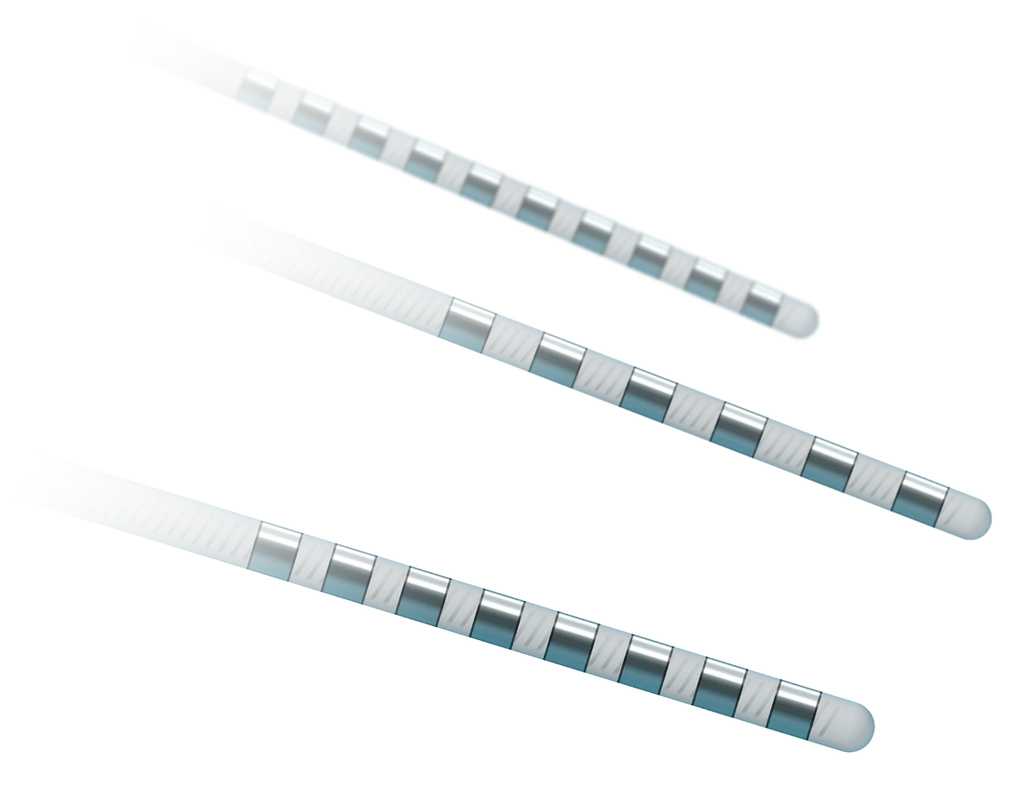
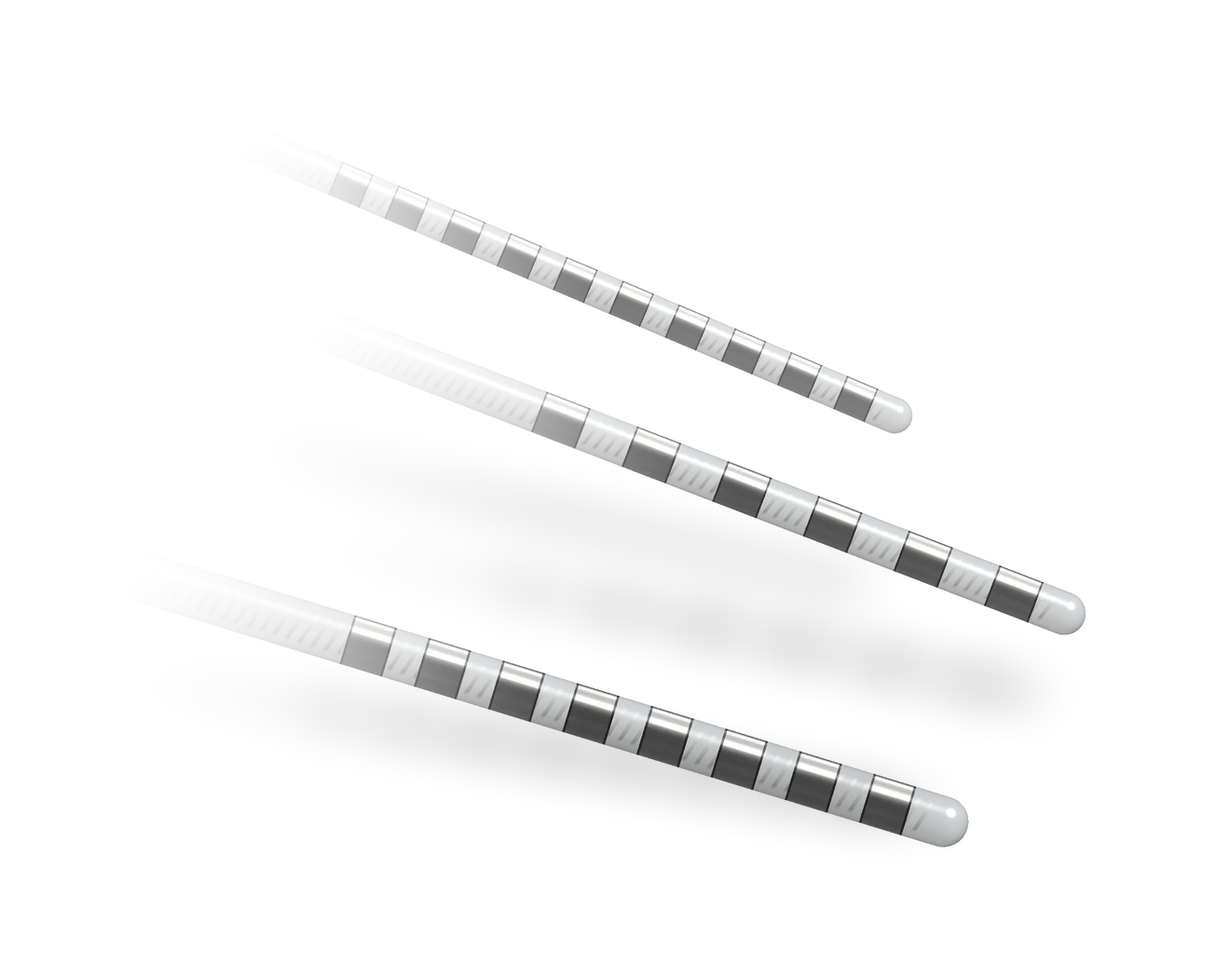
sensomedical TOP-FIX B: one-colour H1; electrodes re-rendered neutral (key from the headline side, no cyan, no blur) and mirrored so the tips face the text, soft cast shadow, no glows, neutral falloff; step 5 scroll
Claude-Session: https://claude.ai/code/session_014388NG1Z4TasdQgjB48bmb

diff --git a/_kit/src/sensomedical.src.html b/_kit/src/sensomedical.src.html
@@ -846,6 +846,8 @@ div.mh-row{grid-template-columns:minmax(0,4fr) minmax(0,3fr) minmax(0,5fr) 24px}
 .bk .cr span{position:relative;padding-left:16px}
 .bk .cr span::before{content:"";position:absolute;left:0;top:.62em;width:6px;height:6px;background:var(--acc)}
 .mani .mk-h{margin:0 0 18px;font-size:11px}
+/* TOP-FIX 2026-11-27: the hero headline in one colour and one style (no italic accent second line) */
+.hero-h em{font-style:normal;font-weight:inherit;color:inherit}
 </style>
 </head>
 </head>
@@ -1084,11 +1086,12 @@ function unmask(s){if(!s)return;(s.masks||[]).forEach(function(m){m.style.overfl
 /*<R:field>*//* ================= HERO FIELD: a crafted render of SensoMedical's real product (HOME_BRIEF update 2c): the FDA-cleared
    Wovyn SEEG depth electrode (K253970), three leads in a loose fan with their platinum/iridium ring contacts and rounded
    tips forward, the clear TPU jacket showing the conductor coil inside. Rasterised offline by render.py with real alpha,
-   baked to hero.webp; here it breathes in a slow Ken Burns drift with a faint logo-cyan glow behind it. It moves on its
+   baked to hero.webp; here it breathes in a slow Ken Burns drift. TOP-FIX B 2026-11-27: re-rendered by render_b.py
+   (neutral studio light, key from the headline side, no cyan, no blur), drawn mirrored so the tips face the text, no glow. It moves on its
    own, so no pointer response (CZ). On phones it sits in the top band and fades into the ink above the text (CW). ================= */
 var field=(function(){
   var cv=$("#field"),c=cv.getContext("2d"),dpr=1,w=0,h=0,running=false,raf=0,t0=performance.now(),shown=false;
-  var IN={v:1},dim=1,dimT=1,SP={v:0},G=null,img=new Image(),ok=false;
+  var IN={v:1},dim=1,dimT=1,SP={v:0},HY=0,G=null,img=new Image(),ok=false;
   var BG="#0a1828";
   img.decoding="async";img.onload=function(){ok=true;if(!running)frame(true)};img.src="hero.webp";
   function h1r(){var e=document.querySelector("#view h1")||document.querySelector("h1"),r=0;if(!e)return 0;try{var tw=document.createTreeWalker(e,4),n,g=document.createRange();while(n=tw.nextNode()){if(!n.nodeValue.trim())continue;g.selectNodeContents(n);[].forEach.call(g.getClientRects(),function(b){if(b.width>0&&b.right>r)r=b.right})}}catch(_){}return r}
@@ -1116,18 +1119,15 @@ var field=(function(){
     if(ok){
       /* a very slow breath: push in ~3% and drift up a touch over ~44s, eased back and forth (scaled about the image centre) */
       var k=.5-.5*Math.cos(t*Math.PI*2/44),sc=(1+.03*k)*(1+.035*(1-e));
-      var dw=G.iw*sc,dh=G.ih*sc,x=G.kx-dw*.5,y=G.ky-dh*.5-k*G.ih*.008-SP.v*G.ih*.05;
-      /* a low deep-teal glow, painted across the WHOLE canvas (never inside the image rect alone), so no edge of the
-         baked render can read as a pasted box (DJ) */
-      var ggx=G.mob?w*.5:G.kx,ggy=G.mob?G.bh*.45:h*.48,ggr=Math.max(w,h)*.7;
-      var ag=c.createRadialGradient(ggx,ggy,0,ggx,ggy,ggr);
-      ag.addColorStop(0,"rgba(14,44,70,"+(.6*e).toFixed(3)+")");ag.addColorStop(.55,"rgba(11,32,52,"+(.3*e).toFixed(3)+")");ag.addColorStop(1,"rgba(10,24,40,0)");
-      c.fillStyle=ag;c.fillRect(0,0,w,h);
-      /* a faint cyan glow behind the contacts (the logo cyan), breathing every ~9s */
-      var pu=.5+.5*Math.sin(t*Math.PI*2/9),px=x+dw*LX,py=y+dh*LY,pr=dw*.34;
-      var rg=c.createRadialGradient(px,py,0,px,py,pr);rg.addColorStop(0,"rgba(33,176,222,"+((.06+.035*pu)*e).toFixed(3)+")");rg.addColorStop(1,"rgba(33,176,222,0)");
-      c.fillStyle=rg;c.fillRect(0,0,w,h);
-      c.globalAlpha=e;c.drawImage(img,x,y,dw,dh);c.globalAlpha=1;
+      var dw=G.iw*sc,dh=G.ih*sc,x=G.kx-dw*.5,y=G.ky-dh*.5-k*G.ih*.008+HY;
+      /* TOP-FIX B: a very faint neutral falloff on the ground, up and toward the headline side (about 2-3%, never coloured) */
+      var fx=G.mob?w*.5:x+dw*.3,fy=G.mob?G.bh*.4:y+dh*.3,fr=Math.max(w,h)*.62;
+      var fo=c.createRadialGradient(fx,fy,0,fx,fy,fr);fo.addColorStop(0,"rgba(255,255,255,"+(.03*e).toFixed(4)+")");fo.addColorStop(.55,"rgba(255,255,255,"+(.011*e).toFixed(4)+")");fo.addColorStop(1,"rgba(255,255,255,0)");
+      c.fillStyle=fo;c.fillRect(0,0,w,h);
+      /* hero.webp (render_b.py + shadow.py) carries PAD px of transparent margin with a soft cast shadow baked in, so the
+         electrodes land exactly where the sent render put them; mirrored so the tips face the text */
+      var PX=100/1105,PY=100/849;
+      c.globalAlpha=e;c.save();c.translate(x+dw*(1+PX),y-dh*PY);c.scale(-1,1);c.drawImage(img,0,0,dw*(1+2*PX),dh*(1+2*PY));c.restore();c.globalAlpha=1;
       if(!G.mob){
         /* the headline side stays quiet (DI): an ink wash from the left, a soft top and base */
         var lv=c.createLinearGradient(0,0,G.side+G.cw*.54,0);lv.addColorStop(0,"rgba(6,17,29,.95)");lv.addColorStop(.6,"rgba(6,17,29,.55)");lv.addColorStop(1,"rgba(6,17,29,0)");c.fillStyle=lv;c.fillRect(0,0,w,h);
@@ -1145,7 +1145,11 @@ var field=(function(){
   function start(){if(running||document.hidden)return;running=true;raf=requestAnimationFrame(function(){frame(false)})}
   function stop(){running=false;cancelAnimationFrame(raf)}
   var rzT;addEventListener("resize",function(){clearTimeout(rzT);rzT=setTimeout(size,120)});size();
-  return {start:start,stop:stop,once:function(){frame(true)},setScroll:function(p){SP.v=Math.round(p*40)/40},
+  return {start:start,stop:stop,once:function(){frame(true)},setScroll:function(p){SP.v=p;
+    /* TOP-FIX step 5 (2026-11-27): the electrodes scroll up 1:1 with the hero on desktop (RECIPE_NOTES section 6), back home once the hero has left */
+    var hy=0,hr=G&&!G.mob?document.querySelector("#view #hero"):null;
+    if(hr){var b=hr.getBoundingClientRect();if(b.bottom>0)hy=Math.min(0,b.top)}
+    if(hy!==HY){HY=hy;frame(true)}},
     intro:function(d){if(RM){IN.v=1;return}IN.v=0;gsap.to(IN,{v:1,duration:d,ease:"power2.out"})},setDim:function(d){dimT=d},snapDim:function(d){dim=dimT=d},running:function(){return running},focus:function(){return G?[G.kx,G.ky]:[w/2,h/2]}};
 })();/*</R:field>*/
 
@@ -1470,7 +1474,7 @@ function preload(){
       var tl=gsap.timeline({onComplete:function(){pre.remove();unlockScroll();gsap.set("#hdr",{clearProps:"transform"});hdrTheme();failsafe()}});
       tl.to(o,{n:100,duration:.25,ease:"power1.out",onUpdate:upd},0)
         .to(wm.chars,{yPercent:-120,opacity:0,duration:.38,ease:"power3.in",stagger:.012},.08)
-        .to(["#pre .mk","#pre .cnt","#pre .bar","#pre .pl"],{opacity:0,duration:.3,ease:"power2.in"},.12)
+        .to("#pre .mk",{y:-64,opacity:0,duration:.62,ease:"power3.in"},.04).to(["#pre .cnt","#pre .bar","#pre .pl"],{y:-24,opacity:0,duration:.4,ease:"power2.in"},.1)
         .add(function(){field.intro(2);field.start()},mob?1.0:.95).fromTo("#field",{filter:"opacity(0)"},{filter:"opacity(1)",duration:1.8,ease:"power2.out",clearProps:"filter"},mob?1.0:.95)
         .add(function(){if(window._heroIn)window._heroIn.play()},mob?1.0:.95)
         .to(pre,{yPercent:-100,duration:.85,ease:"flow"},mob?.62:.42)

diff --git a/sensomedical/index.html b/sensomedical/index.html
@@ -854,6 +854,8 @@ div.mh-row{grid-template-columns:minmax(0,4fr) minmax(0,3fr) minmax(0,5fr) 24px}
 .bk .cr span{position:relative;padding-left:16px}
 .bk .cr span::before{content:"";position:absolute;left:0;top:.62em;width:6px;height:6px;background:var(--acc)}
 .mani .mk-h{margin:0 0 18px;font-size:11px}
+/* TOP-FIX 2026-11-27: the hero headline in one colour and one style (no italic accent second line) */
+.hero-h em{font-style:normal;font-weight:inherit;color:inherit}
 </style>
 </head>
 </head>
@@ -1652,11 +1654,12 @@ function unmask(s){if(!s)return;(s.masks||[]).forEach(function(m){m.style.overfl
 /*<R:field>*//* ================= HERO FIELD: a crafted render of SensoMedical's real product (HOME_BRIEF update 2c): the FDA-cleared
    Wovyn SEEG depth electrode (K253970), three leads in a loose fan with their platinum/iridium ring contacts and rounded
    tips forward, the clear TPU jacket showing the conductor coil inside. Rasterised offline by render.py with real alpha,
-   baked to hero.webp; here it breathes in a slow Ken Burns drift with a faint logo-cyan glow behind it. It moves on its
+   baked to hero.webp; here it breathes in a slow Ken Burns drift. TOP-FIX B 2026-11-27: re-rendered by render_b.py
+   (neutral studio light, key from the headline side, no cyan, no blur), drawn mirrored so the tips face the text, no glow. It moves on its
    own, so no pointer response (CZ). On phones it sits in the top band and fades into the ink above the text (CW). ================= */
 var field=(function(){
   var cv=$("#field"),c=cv.getContext("2d"),dpr=1,w=0,h=0,running=false,raf=0,t0=performance.now(),shown=false;
-  var IN={v:1},dim=1,dimT=1,SP={v:0},G=null,img=new Image(),ok=false;
+  var IN={v:1},dim=1,dimT=1,SP={v:0},HY=0,G=null,img=new Image(),ok=false;
   var BG="#0a1828";
   img.decoding="async";img.onload=function(){ok=true;if(!running)frame(true)};img.src="hero.webp";
   function h1r(){var e=document.querySelector("#view h1")||document.querySelector("h1"),r=0;if(!e)return 0;try{var tw=document.createTreeWalker(e,4),n,g=document.createRange();while(n=tw.nextNode()){if(!n.nodeValue.trim())continue;g.selectNodeContents(n);[].forEach.call(g.getClientRects(),function(b){if(b.width>0&&b.right>r)r=b.right})}}catch(_){}return r}
@@ -1684,18 +1687,15 @@ var field=(function(){
     if(ok){
       /* a very slow breath: push in ~3% and drift up a touch over ~44s, eased back and forth (scaled about the image centre) */
       var k=.5-.5*Math.cos(t*Math.PI*2/44),sc=(1+.03*k)*(1+.035*(1-e));
-      var dw=G.iw*sc,dh=G.ih*sc,x=G.kx-dw*.5,y=G.ky-dh*.5-k*G.ih*.008-SP.v*G.ih*.05;
-      /* a low deep-teal glow, painted across the WHOLE canvas (never inside the image rect alone), so no edge of the
-         baked render can read as a pasted box (DJ) */
-      var ggx=G.mob?w*.5:G.kx,ggy=G.mob?G.bh*.45:h*.48,ggr=Math.max(w,h)*.7;
-      var ag=c.createRadialGradient(ggx,ggy,0,ggx,ggy,ggr);
-      ag.addColorStop(0,"rgba(14,44,70,"+(.6*e).toFixed(3)+")");ag.addColorStop(.55,"rgba(11,32,52,"+(.3*e).toFixed(3)+")");ag.addColorStop(1,"rgba(10,24,40,0)");
-      c.fillStyle=ag;c.fillRect(0,0,w,h);
-      /* a faint cyan glow behind the contacts (the logo cyan), breathing every ~9s */
-      var pu=.5+.5*Math.sin(t*Math.PI*2/9),px=x+dw*LX,py=y+dh*LY,pr=dw*.34;
-      var rg=c.createRadialGradient(px,py,0,px,py,pr);rg.addColorStop(0,"rgba(33,176,222,"+((.06+.035*pu)*e).toFixed(3)+")");rg.addColorStop(1,"rgba(33,176,222,0)");
-      c.fillStyle=rg;c.fillRect(0,0,w,h);
-      c.globalAlpha=e;c.drawImage(img,x,y,dw,dh);c.globalAlpha=1;
+      var dw=G.iw*sc,dh=G.ih*sc,x=G.kx-dw*.5,y=G.ky-dh*.5-k*G.ih*.008+HY;
+      /* TOP-FIX B: a very faint neutral falloff on the ground, up and toward the headline side (about 2-3%, never coloured) */
+      var fx=G.mob?w*.5:x+dw*.3,fy=G.mob?G.bh*.4:y+dh*.3,fr=Math.max(w,h)*.62;
+      var fo=c.createRadialGradient(fx,fy,0,fx,fy,fr);fo.addColorStop(0,"rgba(255,255,255,"+(.03*e).toFixed(4)+")");fo.addColorStop(.55,"rgba(255,255,255,"+(.011*e).toFixed(4)+")");fo.addColorStop(1,"rgba(255,255,255,0)");
+      c.fillStyle=fo;c.fillRect(0,0,w,h);
+      /* hero.webp (render_b.py + shadow.py) carries PAD px of transparent margin with a soft cast shadow baked in, so the
+         electrodes land exactly where the sent render put them; mirrored so the tips face the text */
+      var PX=100/1105,PY=100/849;
+      c.globalAlpha=e;c.save();c.translate(x+dw*(1+PX),y-dh*PY);c.scale(-1,1);c.drawImage(img,0,0,dw*(1+2*PX),dh*(1+2*PY));c.restore();c.globalAlpha=1;
       if(!G.mob){
         /* the headline side stays quiet (DI): an ink wash from the left, a soft top and base */
         var lv=c.createLinearGradient(0,0,G.side+G.cw*.54,0);lv.addColorStop(0,"rgba(6,17,29,.95)");lv.addColorStop(.6,"rgba(6,17,29,.55)");lv.addColorStop(1,"rgba(6,17,29,0)");c.fillStyle=lv;c.fillRect(0,0,w,h);
@@ -1713,7 +1713,11 @@ var field=(function(){
   function start(){if(running||document.hidden)return;running=true;raf=requestAnimationFrame(function(){frame(false)})}
   function stop(){running=false;cancelAnimationFrame(raf)}
   var rzT;addEventListener("resize",function(){clearTimeout(rzT);rzT=setTimeout(size,120)});size();
-  return {start:start,stop:stop,once:function(){frame(true)},setScroll:function(p){SP.v=Math.round(p*40)/40},
+  return {start:start,stop:stop,once:function(){frame(true)},setScroll:function(p){SP.v=p;
+    /* TOP-FIX step 5 (2026-11-27): the electrodes scroll up 1:1 with the hero on desktop (RECIPE_NOTES section 6), back home once the hero has left */
+    var hy=0,hr=G&&!G.mob?document.querySelector("#view #hero"):null;
+    if(hr){var b=hr.getBoundingClientRect();if(b.bottom>0)hy=Math.min(0,b.top)}
+    if(hy!==HY){HY=hy;frame(true)}},
     intro:function(d){if(RM){IN.v=1;return}IN.v=0;gsap.to(IN,{v:1,duration:d,ease:"power2.out"})},setDim:function(d){dimT=d},snapDim:function(d){dim=dimT=d},running:function(){return running},focus:function(){return G?[G.kx,G.ky]:[w/2,h/2]}};
 })();/*</R:field>*/
 
@@ -2038,7 +2042,7 @@ function preload(){
       var tl=gsap.timeline({onComplete:function(){pre.remove();unlockScroll();gsap.set("#hdr",{clearProps:"transform"});hdrTheme();failsafe()}});
       tl.to(o,{n:100,duration:.25,ease:"power1.out",onUpdate:upd},0)
         .to(wm.chars,{yPercent:-120,opacity:0,duration:.38,ease:"power3.in",stagger:.012},.08)
-        .to(["#pre .mk","#pre .cnt","#pre .bar","#pre .pl"],{opacity:0,duration:.3,ease:"power2.in"},.12)
+        .to("#pre .mk",{y:-64,opacity:0,duration:.62,ease:"power3.in"},.04).to(["#pre .cnt","#pre .bar","#pre .pl"],{y:-24,opacity:0,duration:.4,ease:"power2.in"},.1)
         .add(function(){field.intro(2);field.start()},mob?1.0:.95).fromTo("#field",{filter:"opacity(0)"},{filter:"opacity(1)",duration:1.8,ease:"power2.out",clearProps:"filter"},mob?1.0:.95)
         .add(function(){if(window._heroIn)window._heroIn.play()},mob?1.0:.95)
         .to(pre,{yPercent:-100,duration:.85,ease:"flow"},mob?.62:.42)

diff --git a/_kit/home/sensomedical/field.js b/_kit/home/sensomedical/field.js
@@ -1,11 +1,12 @@
 /* ================= HERO FIELD: a crafted render of SensoMedical's real product (HOME_BRIEF update 2c): the FDA-cleared
    Wovyn SEEG depth electrode (K253970), three leads in a loose fan with their platinum/iridium ring contacts and rounded
    tips forward, the clear TPU jacket showing the conductor coil inside. Rasterised offline by render.py with real alpha,
-   baked to hero.webp; here it breathes in a slow Ken Burns drift with a faint logo-cyan glow behind it. It moves on its
+   baked to hero.webp; here it breathes in a slow Ken Burns drift. TOP-FIX B 2026-11-27: re-rendered by render_b.py
+   (neutral studio light, key from the headline side, no cyan, no blur), drawn mirrored so the tips face the text, no glow. It moves on its
    own, so no pointer response (CZ). On phones it sits in the top band and fades into the ink above the text (CW). ================= */
 var field=(function(){
   var cv=$("#field"),c=cv.getContext("2d"),dpr=1,w=0,h=0,running=false,raf=0,t0=performance.now(),shown=false;
-  var IN={v:1},dim=1,dimT=1,SP={v:0},G=null,img=new Image(),ok=false;
+  var IN={v:1},dim=1,dimT=1,SP={v:0},HY=0,G=null,img=new Image(),ok=false;
   var BG="#0a1828";
   img.decoding="async";img.onload=function(){ok=true;if(!running)frame(true)};img.src="hero.webp";
   function h1r(){var e=document.querySelector("#view h1")||document.querySelector("h1"),r=0;if(!e)return 0;try{var tw=document.createTreeWalker(e,4),n,g=document.createRange();while(n=tw.nextNode()){if(!n.nodeValue.trim())continue;g.selectNodeContents(n);[].forEach.call(g.getClientRects(),function(b){if(b.width>0&&b.right>r)r=b.right})}}catch(_){}return r}
@@ -33,18 +34,15 @@ var field=(function(){
     if(ok){
       /* a very slow breath: push in ~3% and drift up a touch over ~44s, eased back and forth (scaled about the image centre) */
       var k=.5-.5*Math.cos(t*Math.PI*2/44),sc=(1+.03*k)*(1+.035*(1-e));
-      var dw=G.iw*sc,dh=G.ih*sc,x=G.kx-dw*.5,y=G.ky-dh*.5-k*G.ih*.008-SP.v*G.ih*.05;
-      /* a low deep-teal glow, painted across the WHOLE canvas (never inside the image rect alone), so no edge of the
-         baked render can read as a pasted box (DJ) */
-      var ggx=G.mob?w*.5:G.kx,ggy=G.mob?G.bh*.45:h*.48,ggr=Math.max(w,h)*.7;
-      var ag=c.createRadialGradient(ggx,ggy,0,ggx,ggy,ggr);
-      ag.addColorStop(0,"rgba(14,44,70,"+(.6*e).toFixed(3)+")");ag.addColorStop(.55,"rgba(11,32,52,"+(.3*e).toFixed(3)+")");ag.addColorStop(1,"rgba(10,24,40,0)");
-      c.fillStyle=ag;c.fillRect(0,0,w,h);
-      /* a faint cyan glow behind the contacts (the logo cyan), breathing every ~9s */
-      var pu=.5+.5*Math.sin(t*Math.PI*2/9),px=x+dw*LX,py=y+dh*LY,pr=dw*.34;
-      var rg=c.createRadialGradient(px,py,0,px,py,pr);rg.addColorStop(0,"rgba(33,176,222,"+((.06+.035*pu)*e).toFixed(3)+")");rg.addColorStop(1,"rgba(33,176,222,0)");
-      c.fillStyle=rg;c.fillRect(0,0,w,h);
-      c.globalAlpha=e;c.drawImage(img,x,y,dw,dh);c.globalAlpha=1;
+      var dw=G.iw*sc,dh=G.ih*sc,x=G.kx-dw*.5,y=G.ky-dh*.5-k*G.ih*.008+HY;
+      /* TOP-FIX B: a very faint neutral falloff on the ground, up and toward the headline side (about 2-3%, never coloured) */
+      var fx=G.mob?w*.5:x+dw*.3,fy=G.mob?G.bh*.4:y+dh*.3,fr=Math.max(w,h)*.62;
+      var fo=c.createRadialGradient(fx,fy,0,fx,fy,fr);fo.addColorStop(0,"rgba(255,255,255,"+(.03*e).toFixed(4)+")");fo.addColorStop(.55,"rgba(255,255,255,"+(.011*e).toFixed(4)+")");fo.addColorStop(1,"rgba(255,255,255,0)");
+      c.fillStyle=fo;c.fillRect(0,0,w,h);
+      /* hero.webp (render_b.py + shadow.py) carries PAD px of transparent margin with a soft cast shadow baked in, so the
+         electrodes land exactly where the sent render put them; mirrored so the tips face the text */
+      var PX=100/1105,PY=100/849;
+      c.globalAlpha=e;c.save();c.translate(x+dw*(1+PX),y-dh*PY);c.scale(-1,1);c.drawImage(img,0,0,dw*(1+2*PX),dh*(1+2*PY));c.restore();c.globalAlpha=1;
       if(!G.mob){
         /* the headline side stays quiet (DI): an ink wash from the left, a soft top and base */
         var lv=c.createLinearGradient(0,0,G.side+G.cw*.54,0);lv.addColorStop(0,"rgba(6,17,29,.95)");lv.addColorStop(.6,"rgba(6,17,29,.55)");lv.addColorStop(1,"rgba(6,17,29,0)");c.fillStyle=lv;c.fillRect(0,0,w,h);
@@ -62,6 +60,10 @@ var field=(function(){
   function start(){if(running||document.hidden)return;running=true;raf=requestAnimationFrame(function(){frame(false)})}
   function stop(){running=false;cancelAnimationFrame(raf)}
   var rzT;addEventListener("resize",function(){clearTimeout(rzT);rzT=setTimeout(size,120)});size();
-  return {start:start,stop:stop,once:function(){frame(true)},setScroll:function(p){SP.v=Math.round(p*40)/40},
+  return {start:start,stop:stop,once:function(){frame(true)},setScroll:function(p){SP.v=p;
+    /* TOP-FIX step 5 (2026-11-27): the electrodes scroll up 1:1 with the hero on desktop (RECIPE_NOTES section 6), back home once the hero has left */
+    var hy=0,hr=G&&!G.mob?document.querySelector("#view #hero"):null;
+    if(hr){var b=hr.getBoundingClientRect();if(b.bottom>0)hy=Math.min(0,b.top)}
+    if(hy!==HY){HY=hy;frame(true)}},
     intro:function(d){if(RM){IN.v=1;return}IN.v=0;gsap.to(IN,{v:1,duration:d,ease:"power2.out"})},setDim:function(d){dimT=d},snapDim:function(d){dim=dimT=d},running:function(){return running},focus:function(){return G?[G.kx,G.ky]:[w/2,h/2]}};
 })();

diff --git a/_kit/home/sensomedical/extra.css b/_kit/home/sensomedical/extra.css
@@ -217,3 +217,5 @@ div.mh-row{grid-template-columns:minmax(0,4fr) minmax(0,3fr) minmax(0,5fr) 24px}
 .bk .cr span{position:relative;padding-left:16px}
 .bk .cr span::before{content:"";position:absolute;left:0;top:.62em;width:6px;height:6px;background:var(--acc)}
 .mani .mk-h{margin:0 0 18px;font-size:11px}
+/* TOP-FIX 2026-11-27: the hero headline in one colour and one style (no italic accent second line) */
+.hero-h em{font-style:normal;font-weight:inherit;color:inherit}

diff --git a/_kit/home/sensomedical/render_b.py b/_kit/home/sensomedical/render_b.py
@@ -1,0 +1,138 @@
+#!/usr/bin/env python3
+"""VARIANT B (TOP-FIX 2026-11-27): the same electrodes, lit as a studio product shot with neutral light only: the key from
+the upper RIGHT of this image (field.js draws it mirrored, so the key comes from the headline side and the tips face the
+text), a low neutral fill, a dim neutral rim on the far lower edge, no cyan, no depth-of-field blur; then a faint soft
+cast shadow baked in by ../atlasspine/shadow.py-style padding (shadow.py here).
+SensoMedical hero: a crafted render of their real product, the FDA-cleared Wovyn SEEG depth electrode (K253970,
+cleared 17 April 2026; predicate SENSOSEEG K213170). From the 510(k) summary: a single-use implantable depth electrode
+with 4 to 16 platinum/iridium (Pt90/Ir10) macro contacts, 1.5-3 mm long, on a TPU jacket 0.8-2.0 mm in diameter, with
+a stylet for placement. Three electrodes lie in a loose fan, distal (brain-contact) ends forward: a clear, slightly
+blue TPU jacket with the fine helical conductor visible through it, bright Pt/Ir ring contacts, rounded tips. Lit by a
+cool key from the upper left and a cyan rim (the SensoMedical logo cyan #21b0de). Analytic cylinder shading, 2x
+supersampled, real alpha; the proximal ends fade out softly so no cut or edge shows (DJ).
+Usage: python3 render.py out.webp [W]"""
+import sys, math
+import numpy as np
+from PIL import Image, ImageFilter
+
+OUT = sys.argv[1] if len(sys.argv) > 1 else 'hero.webp'
+OW = int(sys.argv[2]) if len(sys.argv) > 2 else 1300
+AR = 0.86                      # height / width
+SS = 2
+W, H = OW * SS, int(OW * AR) * SS
+yy, xx = np.mgrid[0:H, 0:W].astype(np.float32) + 0.5
+
+def nrm(v):
+    v = np.asarray(v, np.float32); return v / np.linalg.norm(v)
+
+L = nrm([0.55, -0.62, 0.56])            # key light (x right, y down, z to viewer)
+Hh = nrm(L + np.array([0, 0, 1.0]))
+L2 = nrm([-0.6, 0.55, 0.58])             # low neutral fill from the lower left (lower right on the page)
+CYAN = np.array([0.13, 0.69, 0.87], np.float32)
+PT = np.array([0.94, 0.935, 0.92], np.float32)     # platinum/iridium
+TPU = np.array([0.90, 0.94, 0.97], np.float32)     # clear polymer, faint blue
+WIRE = np.array([0.78, 0.74, 0.68], np.float32)    # conductor seen through the jacket
+
+def sstep(a, b, x):
+    t = np.clip((x - a) / (b - a), 0, 1); return t * t * (3 - 2 * t)
+
+def env(ry):
+    """a studio environment by reflected-ray height: a bright softbox above, a dark horizon band, a cool cyan bounce below"""
+    top = sstep(-0.05, -0.9, ry) ** 1.3
+    hi = sstep(-0.55, -0.75, ry) * sstep(-0.98, -0.8, ry)     # the softbox's bright core: a narrow band
+    bot = sstep(0.2, 0.9, ry)
+    e = 0.04 + 0.55 * top[..., None] + 0.5 * hi[..., None] + 0.10 * bot[..., None]
+    return e
+
+def electrode(tip, ang_deg, r, contacts, length, dim=1.0):
+    """premultiplied RGBA layer of one depth electrode. tip: (x, y) in image fraction; ang: direction from the tip
+    toward the proximal end; r: radius in px (at SS); contacts: list of (start, end) along the axis in units of r"""
+    a = math.radians(ang_deg)
+    dx, dy = math.cos(a), math.sin(a)            # axis direction, tip -> proximal
+    px, py = -dy, dx                              # in-plane normal
+    tx, ty = tip[0] * W, tip[1] * H
+    qx, qy = xx - tx, yy - ty
+    s = qx * dx + qy * dy                         # distance along the axis from the tip centre
+    v = (qx * px + qy * py) / r                   # across the tube, -1..1
+    # tip: a hemisphere at s<0
+    capd = np.sqrt((s / r) ** 2 + v ** 2)
+    inside = np.where(s < 0, capd < 1.0, np.abs(v) < 1.0) & (s < length)
+    # normals
+    vz = np.where(s < 0, np.sqrt(np.clip(1 - capd ** 2, 0, 1)), np.sqrt(np.clip(1 - v ** 2, 0, 1)))
+    ax = np.where(s < 0, (s / r) * dx, 0.0)       # cap normal tilts along the axis toward the tip
+    ay = np.where(s < 0, (s / r) * dy, 0.0)
+    nx = ax + np.where(s < 0, v, v) * px
+    ny = ay + np.where(s < 0, v, v) * py
+    nz = vz
+    n = np.sqrt(nx ** 2 + ny ** 2 + nz ** 2) + 1e-6
+    nx, ny, nz = nx / n, ny / n, nz / n
+    ndl = np.clip(nx * L[0] + ny * L[1] + nz * L[2], 0, 1)
+    ndl2 = np.clip(nx * L2[0] + ny * L2[1] + nz * L2[2], 0, 1)
+    ndh = np.clip(nx * Hh[0] + ny * Hh[1] + nz * Hh[2], 0, 1)
+    rim = (1 - nz) ** 3 * np.clip(-0.7 * nx + 0.7 * ny, 0, 1)   # far (lower left here) edge only, grazing
+    su = s / r
+    # contacts (metal bands) with a fine bevel at each edge
+    met = np.zeros_like(s); bev = np.zeros_like(s)
+    for (c0, c1) in contacts:
+        inb = (su >= c0) & (su <= c1)
+        met = np.maximum(met, inb.astype(np.float32))
+        ed = np.minimum(np.abs(su - c0), np.abs(su - c1))
+        bev = np.maximum(bev, (inb & (ed < 0.09)).astype(np.float32))
+    # the tip cap is metal-free polymer on Wovyn-type electrodes: keep it TPU, slightly denser
+    # --- metal shading: environment reflection + sharp key highlight
+    ry = 2 * nz * ny                               # reflected ray (view along -z) y component
+    em = env(ry)
+    metal = PT * (0.08 + 0.22 * ndl)[..., None] + PT * em * 0.86 + (np.clip(ndh, 0, 1) ** 110)[..., None] * 1.4 \
+        + (0.30 * rim + 0.10 * ndl2)[..., None]
+    metal = metal * (1 - 0.55 * bev)[..., None]
+    # --- polymer: clear TPU, Fresnel-weighted alpha, satin highlight, helical conductor visible through it
+    ang_c = np.arcsin(np.clip(v, -1, 1))
+    helix = ((su * 1.9 + ang_c * 0.55) % 1.0)
+    wire = sstep(0.22, 0.1, np.abs(helix - 0.5)) * sstep(0.78, 0.55, np.abs(v)) * (s > 0.6 * r)
+    gloss = np.clip(ndh, 0, 1) ** 70
+    poly = TPU * (0.24 + 0.46 * ndl)[..., None] + gloss[..., None] * 1.1 + (0.30 * rim + 0.08 * ndl2)[..., None]
+    wcol = WIRE * (0.35 + 0.9 * ndl)[..., None] + (ndh ** 20)[..., None] * 0.35
+    poly = poly * (1 - 0.4 * wire)[..., None] + wcol * (0.4 * wire)[..., None]
+    palpha = 0.42 + 0.35 * (1 - nz) ** 2.2 + 0.2 * rim + 0.2 * wire + 0.6 * gloss
+    col = np.where(met[..., None] > 0, metal, poly)
+    alpha = np.where(met > 0, 1.0, np.clip(palpha, 0, 1))
+    # proximal fade: the lead dissolves softly into the ink (DJ)
+    fade = 1 - sstep(length * 0.40, length, s) ** 0.8
+    alpha = alpha * fade * inside * dim
+    col = np.clip(col, 0, 1.6)
+    return np.concatenate([col * alpha[..., None], alpha[..., None]], -1)
+
+def bands(n, c_len, gap, first=1.4):
+    out = []; p = first
+    for i in range(n):
+        out.append((p, p + c_len)); p += c_len + gap
+    return out
+
+R1, R2, R3 = 0.021 * W, 0.0178 * W, 0.0148 * W
+layers = [
+    # back electrode: thinnest, 10 contacts, softly out of focus
+    (electrode((0.76, 0.34), -157, R3, bands(10, 1.9, 1.5), 0.62 * W, 0.72), 0.0),
+    # middle: 6 contacts, wider spacing
+    (electrode((0.90, 0.53), -159, R2, bands(6, 2.2, 2.3), 0.70 * W, 0.92), 0.0),
+    # front: 8 contacts
+    (electrode((0.80, 0.73), -163, R1, bands(8, 1.75, 1.3), 0.74 * W, 1.0), 0.0),
+]
+acc = np.zeros((H, W, 4), np.float32)
+for lay, blur in layers:
+    if blur > 0:
+        im = Image.fromarray(np.clip(lay * 255 / 1.6, 0, 255).astype(np.uint8), 'RGBA')
+        # blur each channel of the premultiplied layer
+        chans = [Image.fromarray(np.clip(lay[..., k] / (1.6 if k < 3 else 1) * 255, 0, 255).astype(np.uint8)).filter(ImageFilter.GaussianBlur(blur * SS)) for k in range(4)]
+        lay = np.stack([np.asarray(c, np.float32) / 255 * (1.6 if k < 3 else 1) for k, c in enumerate(chans)], -1)
+    acc = lay + acc * (1 - lay[..., 3:4])      # this layer is in FRONT of what came before
+# un-premultiply, downsample
+a = acc[..., 3]
+rgb = np.where(a[..., None] > 1e-4, acc[..., :3] / np.maximum(a[..., None], 1e-4), 0)
+rgb = np.clip(rgb, 0, 1)
+img = Image.fromarray(np.concatenate([(rgb * 255).astype(np.uint8), (np.clip(a, 0, 1) * 255).astype(np.uint8)[..., None]], -1), 'RGBA')
+img = img.resize((OW, int(OW * AR)), Image.LANCZOS)
+bb = img.getchannel('A').point(lambda x: 255 if x > 3 else 0).getbbox()
+pad = int(OW * 0.03)
+img = img.crop((max(0, bb[0] - pad), max(0, bb[1] - pad), min(img.width, bb[2] + pad), min(img.height, bb[3] + pad)))
+img.save(OUT, 'WEBP', quality=90, method=6)
+print('wrote', OUT, img.size)

diff --git a/_kit/home/sensomedical/shadow.py b/_kit/home/sensomedical/shadow.py
@@ -1,0 +1,25 @@
+#!/usr/bin/env python3
+"""TOP-FIX B 2026-11-27 (RECIPE_NOTES section 3): bake a faint soft cast shadow into a padded copy of the hero image.
+The silhouette (alpha) is squashed to 55% height, shifted 40% of the height down and 3.5% of the width away from the
+key (the key is upper left on the page, so +x unless MIRROR), blurred by 2.2% of the width, 0.34 black; the object is
+composited over it unchanged, in PAD px of transparent margin on every side. The object's own pixels are not relit.
+Usage: python3 shadow.py in.webp out.webp [PAD] [mirror]"""
+import sys, numpy as np
+from PIL import Image, ImageFilter
+src, out = sys.argv[1], sys.argv[2]
+PAD = int(sys.argv[3]) if len(sys.argv) > 3 else 120
+MIR = len(sys.argv) > 4 and sys.argv[4] == 'mirror'
+im = Image.open(src).convert('RGBA'); FW, FH = im.size
+a = np.asarray(im, float)[..., 3]/255
+sil = im.getchannel('A')
+sh = Image.new('L', (FW+2*PAD, FH+2*PAD), 0)
+dx = int(FW*0.035)*(-1 if MIR else 1)
+sh.paste(sil.resize((FW, int(FH*0.55))), (PAD+dx, PAD+int(FH*0.40)))
+sh = sh.filter(ImageFilter.GaussianBlur(FW*0.022))
+sha = np.asarray(sh, float)/255*0.34
+obj = np.zeros((FH+2*PAD, FW+2*PAD, 3)); oa = np.zeros((FH+2*PAD, FW+2*PAD))
+obj[PAD:PAD+FH, PAD:PAD+FW] = np.asarray(im, float)[..., :3]/255; oa[PAD:PAD+FH, PAD:PAD+FW] = a
+outa = oa + sha*(1-oa)
+outc = np.where(outa[..., None] > 0, obj*oa[..., None]/np.maximum(outa[..., None], 1e-6), 0)
+Image.fromarray(np.dstack([outc*255, outa*255]).clip(0, 255).astype(np.uint8), 'RGBA').save(out, quality=92, method=6)
+print(out, FW, FH, 'pad', PAD)
